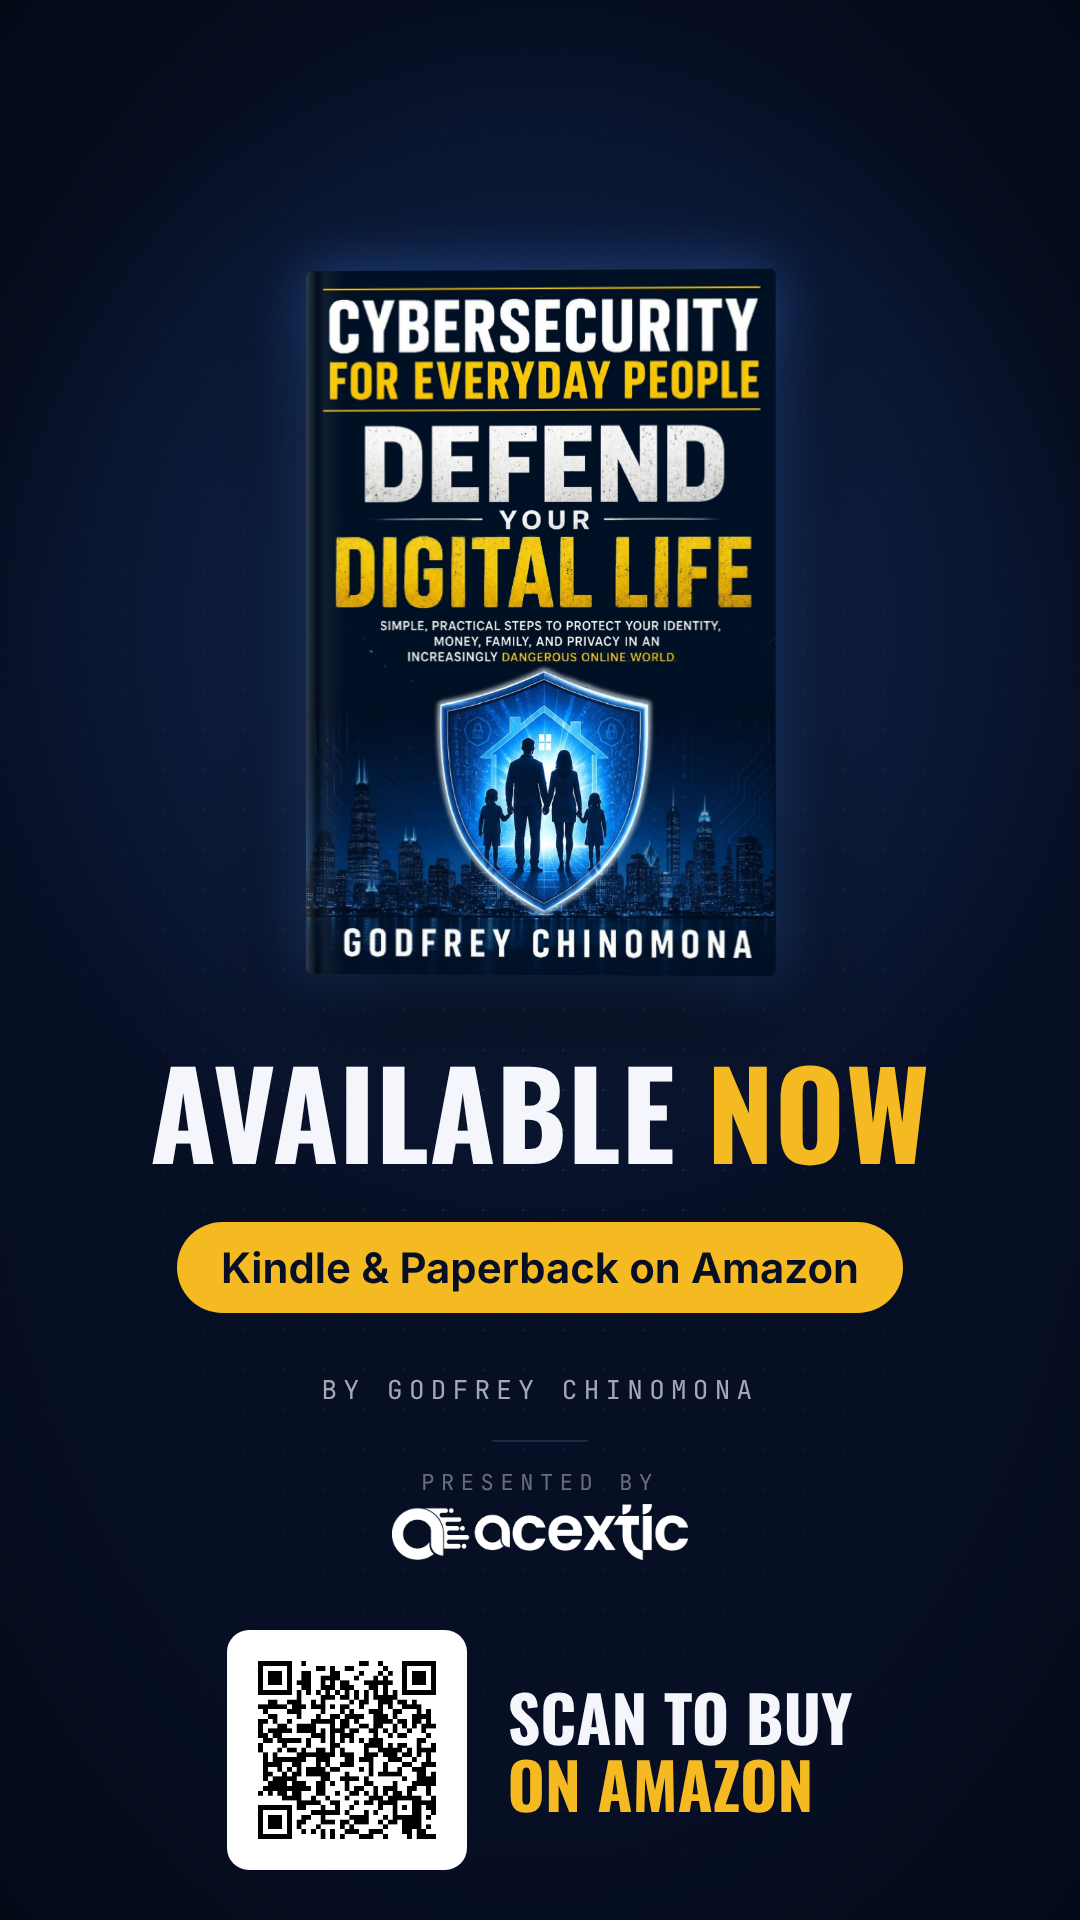
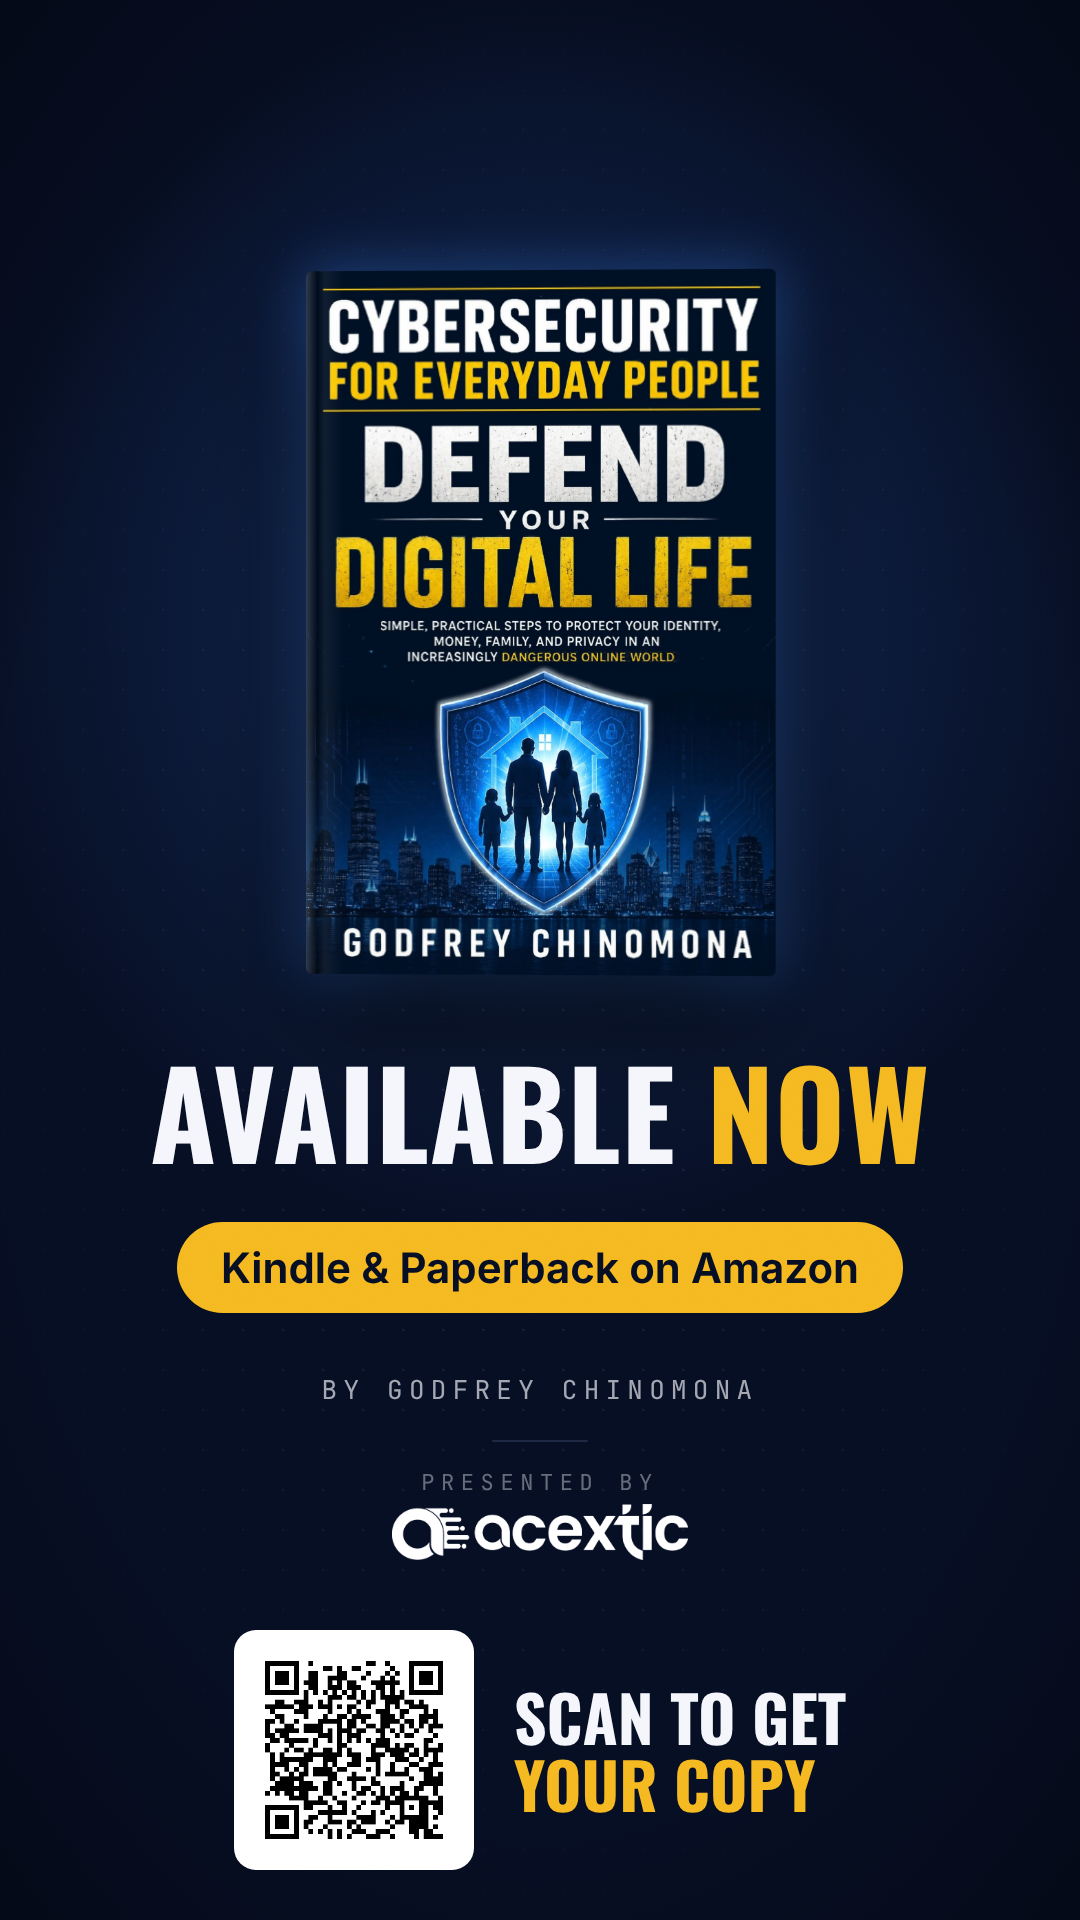
Flyer: 'Scan to get your copy', drop the repeated Amazon line
Claude-Session: https://claude.ai/code/session_01PcgwNBfcmuzEBUtVdBHNSg

Changed region(s): [[0.1833, 0.8438, 0.7944, 0.9688]]

diff --git a/src/book/BookFlyer.tsx b/src/book/BookFlyer.tsx
@@ -27,10 +27,10 @@ export const BookFlyer: React.FC = () => {
         </div>
         <div>
           <div style={{fontFamily: BF.display, fontWeight: 700, fontSize: 64, lineHeight: 1.05, color: B.white, textTransform: 'uppercase'}}>
-            Scan to buy
+            Scan to get
           </div>
           <div style={{fontFamily: BF.display, fontWeight: 700, fontSize: 64, lineHeight: 1.05, color: B.gold, textTransform: 'uppercase'}}>
-            on Amazon
+            your copy
           </div>
         </div>
       </div>
